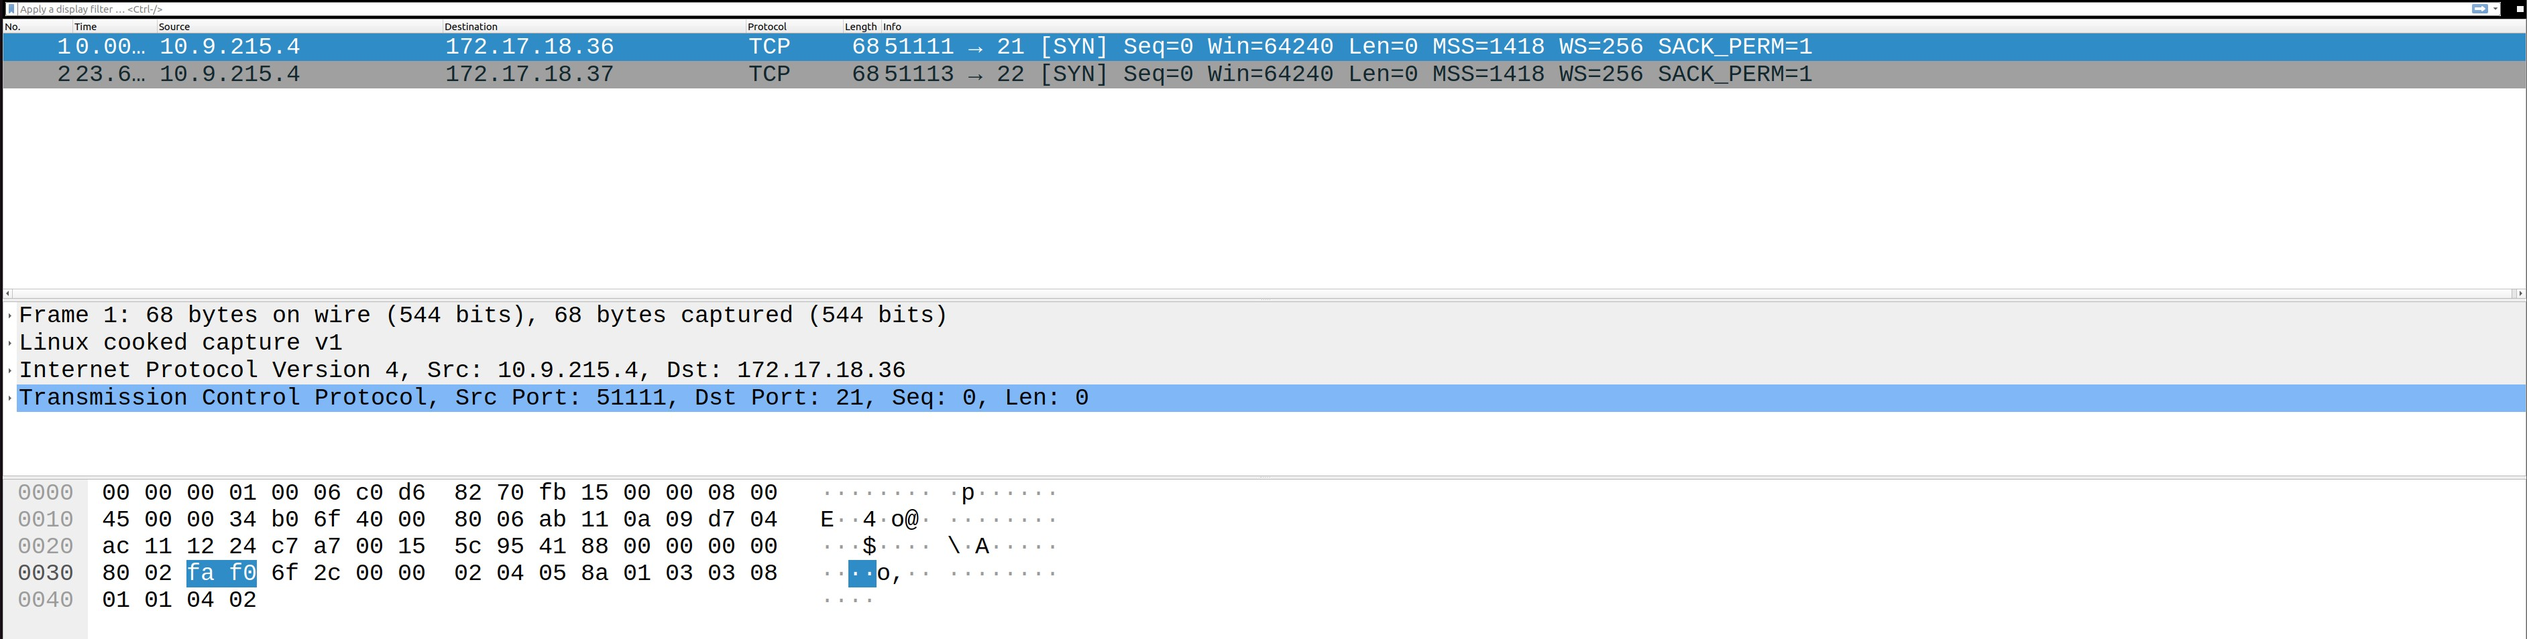
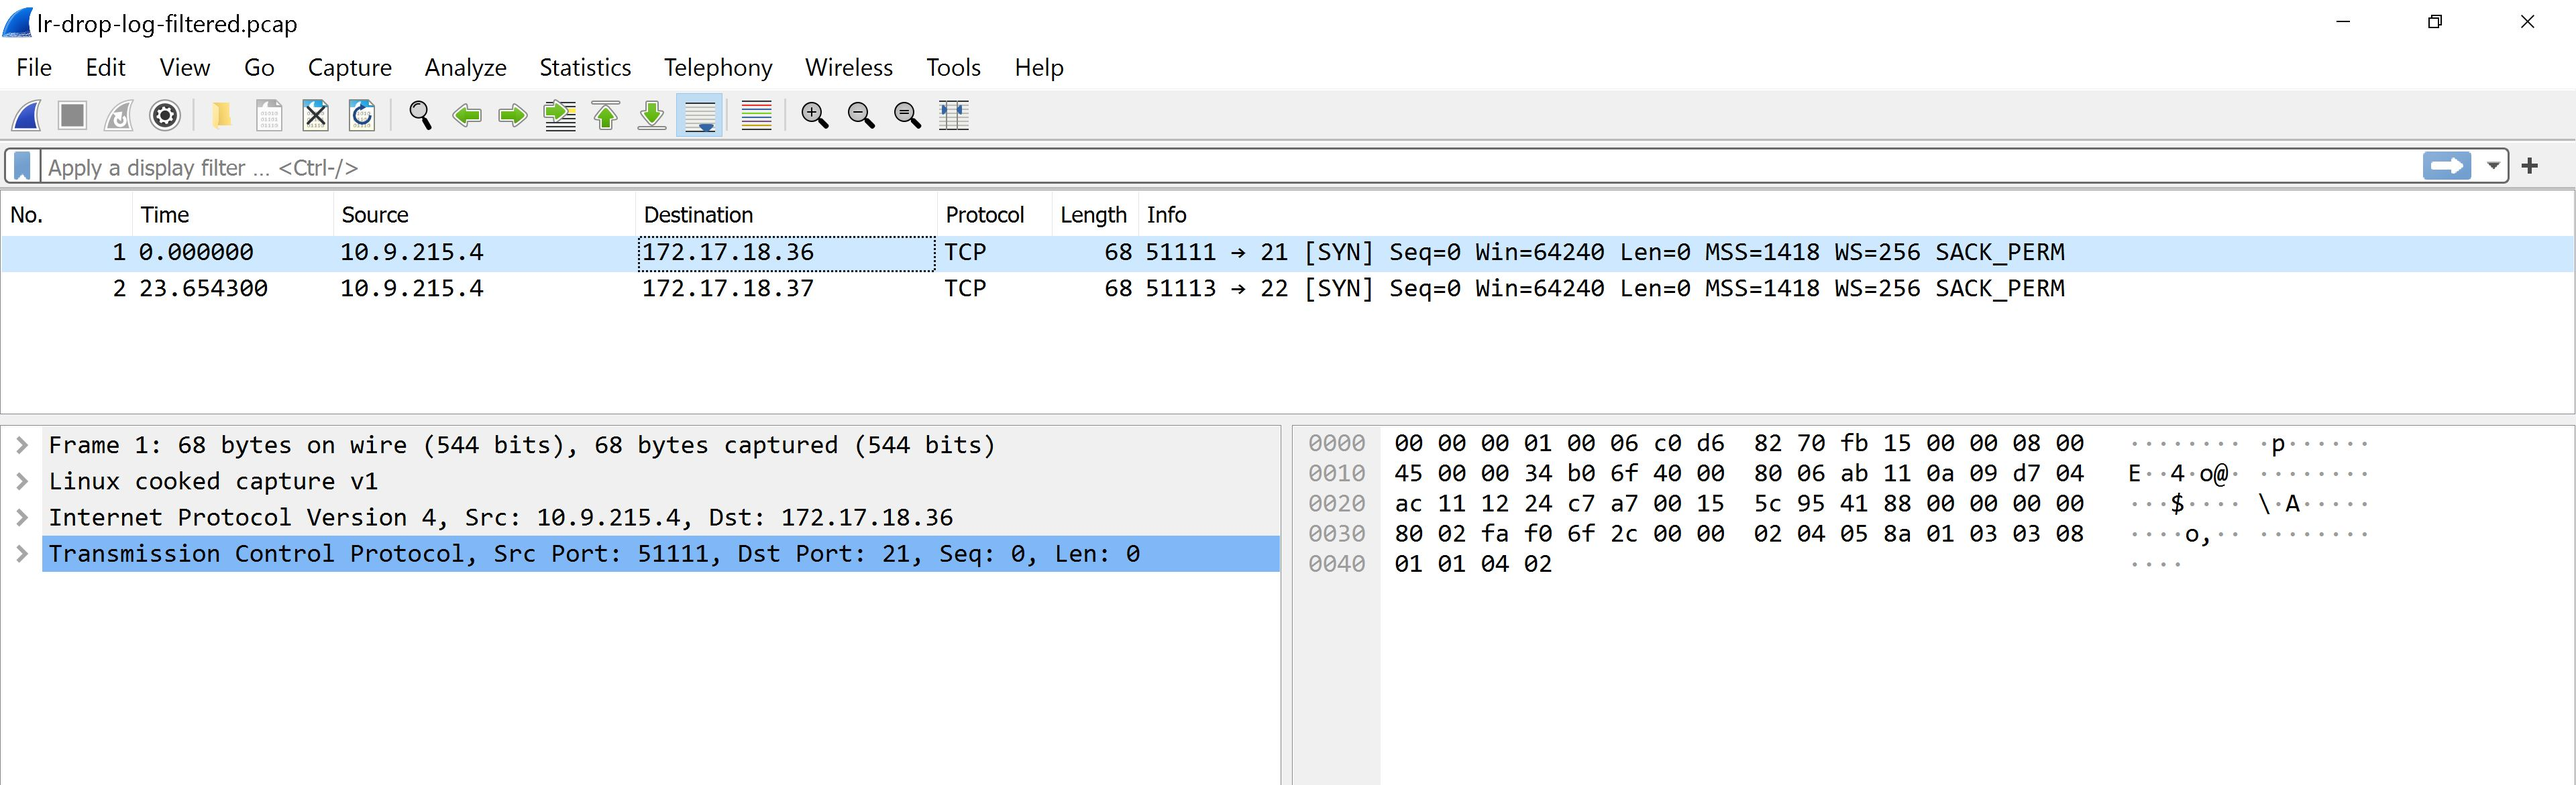
Updated log files for partC

diff --git a/Checkpoint9/README.md b/Checkpoint9/README.md
@@ -45,6 +45,7 @@ sudo tcpdump -i any -qnns 0 -w ftp-mysql.pcap "net 172.17.0.0/16" &
 ```bash
 scp -i sshkey.pem -P 22 192.168.18.36:~/ftp-mysql.pcap .
 ```
+
 3. A screenshot of `ftp-mysql.pcap` that shows 8 packets.
 
 ![MySQL Filtered](https://github.com/108170218-myseneca/CSN400-Capstone/blob/main/Checkpoint9/Images/MySQLFiltered.JPG)
@@ -52,7 +53,9 @@ scp -i sshkey.pem -P 22 192.168.18.36:~/ftp-mysql.pcap .
 
 ### Part C - Adjusting firewalls to DROP and LOG Traffic
 
-The `lr-drop-log.sh` file for firewalls to `DROP` and `LOG` Traffic:
+Adjusting the firewall configuration in Linux Router `LR-18` to block `FTP` and `SSH` Traffic in the `FORWARD` chain with specific port and source/destination criteria. And adding this new rules to a new file called: `lr-drop-log.sh` to add `LOG` and `DROP` rules for the specified traffic.
+
+1. The `lr-drop-log.sh` file for firewalls to `DROP` and `LOG` Traffic:
 
 [./logfile/lr-drop-log.log](./logfile/lr-drop-log.log)
 
@@ -65,9 +68,13 @@ iptables -A FORWARD -p tcp -d 172.17.18.36 --dport 21 -j DROP
 iptables -A FORWARD -p tcp -d 172.17.18.37 --dport 22 -j LOG --log-prefix "Dropped SSH packet: " --log-level 4
 iptables -A FORWARD -p tcp -d 172.17.18.37 --dport 22 -j DROP
 ```
+2. A screenshot that shows the content of `lr-nondrop-log-filtered.pcap` with 7 packets.
 
+![No Drop Filtered](https://github.com/108170218-myseneca/CSN400-Capstone/blob/main/Checkpoint9/Images/NodropFiltered.JPG)
 
-### click for the log content <<<<< lr drop log filtered log
+### click for the log content <<<<< lr-drop-log-filtered.log
+
+[./logfile/lr-drop-log-filtered.log](./logfile/lr-drop-log-filtered.log)
 
 <details>
 
@@ -121,10 +128,9 @@ Jul 21 15:04:22 LR-18 kernel: Blocked FTP TO WS-18: IN=eth0 OUT=eth0 MAC=00:22:4
 </details>
 
 
-![No Drop Log](https://github.com/108170218-myseneca/CSN400-Capstone/blob/main/Checkpoint9/Images/NodropFiltered.JPG)
+3. A screenshot that shows the content of `lr-drop-log-filtered.pcap` with 2 packets.
 
-
-![Last Month Product](https://github.com/108170218-myseneca/CSN400-Capstone/blob/main/Checkpoint9/Images/Product.jpg)
+![Drop Filtered](https://github.com/108170218-myseneca/CSN400-Capstone/blob/main/Checkpoint9/Images/DropFiltered.JPG)
 
 
 ### Part D - Azure Cost Analysis Charts
